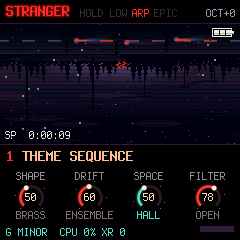
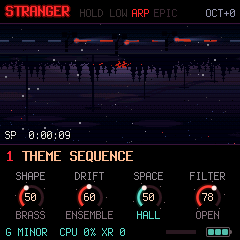
v0.8.1: the battery out of the picture, quiet in the panel's corner
Claude-Session: https://claude.ai/code/session_019gwqiQLLFmpzrXLRhwDjRm

Changed region(s): [[0.6708, 0.9333, 0.9917, 0.9917], [0.875, 0.1167, 0.9917, 0.175]]

diff --git a/app.c b/app.c
@@ -1790,6 +1790,45 @@ static void draw_pknob(int k, int32_t x, int32_t y, uint32_t now)   /* a page's 
     ring_knob(x, y, PK_NAME[ui.page - 1][k], v, lo, hi, 0, t, hot, 0);
 }
 
+/* the battery, quiet in the panel's corner: a small rounded cell, its tip, three soft bars (no number); on USB power a
+ * plug instead; nearly empty the last bar red and slowly pulsing */
+static void draw_battery(int32_t x, int32_t y)
+{
+    int b = plat_battery();
+    uint16_t edge = RGB(96, 84, 92), fill = RGB(80, 190, 175), dark = RGB(30, 24, 30);
+    int32_t i;
+    if (b < 0)
+        return;
+    cv_rect(x + 1, y, 22, 1, edge);      /* the cell: rounded corners, half-lit */
+    cv_rect(x + 1, y + 9, 22, 1, edge);
+    cv_rect(x, y + 1, 1, 8, edge);
+    cv_rect(x + 23, y + 1, 1, 8, edge);
+    px_mix(x, y, edge, 100u);
+    px_mix(x + 23, y, edge, 100u);
+    px_mix(x, y + 9, edge, 100u);
+    px_mix(x + 23, y + 9, edge, 100u);
+    cv_rect(x + 24, y + 3, 2, 4, edge);  /* its tip */
+    px_mix(x + 25, y + 3, C_BLACK, 120u);
+    px_mix(x + 25, y + 6, C_BLACK, 120u);
+    if (b == 4) {                        /* on USB power: a small plug */
+        cv_rect(x + 6, y + 4, 7, 2, fill);
+        cv_rect(x + 13, y + 2, 3, 6, fill);
+        cv_rect(x + 16, y + 3, 3, 1, fill);
+        cv_rect(x + 16, y + 6, 3, 1, fill);
+        return;
+    }
+    for (i = 0; i < 3; i++) {
+        uint16_t c = i < b ? fill : dark;
+        if (b == 0 && i == 0)            /* nearly empty: the first bar red, breathing */
+            c = mix565(RGB(90, 20, 20), RGB(230, 50, 40), 128u + (uint32_t)(fm_sin_turns((float)(plat_ms() % 1600u) / 1600.0f) * 127.0f));
+        cv_rect(x + 2 + i * 7, y + 2, 6, 6, c);
+        px_mix(x + 2 + i * 7, y + 2, dark, 110u);   /* softened corners */
+        px_mix(x + 7 + i * 7, y + 2, dark, 110u);
+        px_mix(x + 2 + i * 7, y + 7, dark, 110u);
+        px_mix(x + 7 + i * 7, y + 7, dark, 110u);
+    }
+}
+
 static void draw_panel(void)
 {
     uint32_t now = plat_ms(), i;
@@ -1869,9 +1908,10 @@ static void draw_panel(void)
         for (k = 0; k < NKEYS; k++)
             if (ui.prs[k] > pmax)
                 pmax = ui.prs[k];
-        cv_rect(200, 82, 34, 6, RGB(50, 30, 60));
-        cv_rect(201, 83, (int32_t)(pmax * 32u / 127u), 4, C_MAG);
+        cv_rect(166, 86, 30, 4, RGB(40, 24, 34));
+        cv_rect(166, 86, (int32_t)(pmax * 30u / 127u), 4, RGB(150, 50, 60));
     }
+    draw_battery(206, 83);
     cv_blit(0, 144);
 }
 

diff --git a/film.c b/film.c
@@ -399,26 +399,9 @@ static void film_frame(uint32_t now)
             cv_text(5, 18, &FONT_XS, t, RGB(200, 200, 210));
         }
     }
-    {                                    /* the camcorder's viewfinder: the battery (no number) and the tape counter */
-        int b = plat_battery();
-        uint32_t s = plat_ms() / 1000u, k;
+    {                                    /* the camcorder's viewfinder: the tape counter */
+        uint32_t s = plat_ms() / 1000u;
         char t[16];
-        if (b >= 0 && !(b == 0 && (film.frame & 16u))) {   /* (empty: it blinks) */
-            int32_t bx = 212, by = 4;
-            uint16_t c = b == 0 ? RGB(255, 60, 50) : RGB(235, 235, 225);
-            cv_rect(bx + 1, by + 1, 21, 10, C_BLACK);          /* its shadow */
-            cv_rect(bx, by, 20, 9, c);                         /* the cell, its tip */
-            cv_rect(bx + 1, by + 1, 18, 7, C_BLACK);
-            cv_rect(bx + 20, by + 3, 2, 3, c);
-            if (b == 4) {                                      /* on USB power: a plug */
-                cv_rect(bx + 5, by + 4, 7, 2, c);
-                cv_rect(bx + 12, by + 2, 2, 5, c);
-                cv_rect(bx + 14, by + 3, 2, 1, c);
-                cv_rect(bx + 14, by + 5, 2, 1, c);
-            } else
-                for (k = 0; k < 3u; k++)
-                    cv_rect(bx + 2 + (int32_t)k * 6, by + 2, 5, 5, (int)k < b ? c : RGB(60, 60, 60));
-        }
         t[0] = 'S';
         t[1] = 'P';
         t[2] = ' ';

diff --git a/README.md b/README.md
@@ -82,3 +82,5 @@ red door, soft beams for the headlights and flashlights, anti-aliased wires. ROU
 pines against the red glow, fog, telephone poles running away. A camcorder's viewfinder over the picture: the battery as
 a small cell with three bars (no number; a plug on USB power; it blinks when nearly empty) and the tape counter. The
 knobs as rings with their sweetspots, the title with a neon glow.
+
+(v0.8.1: the battery moved out of the picture into the panel's bottom right corner: a small, quiet cell with three soft bars.)
